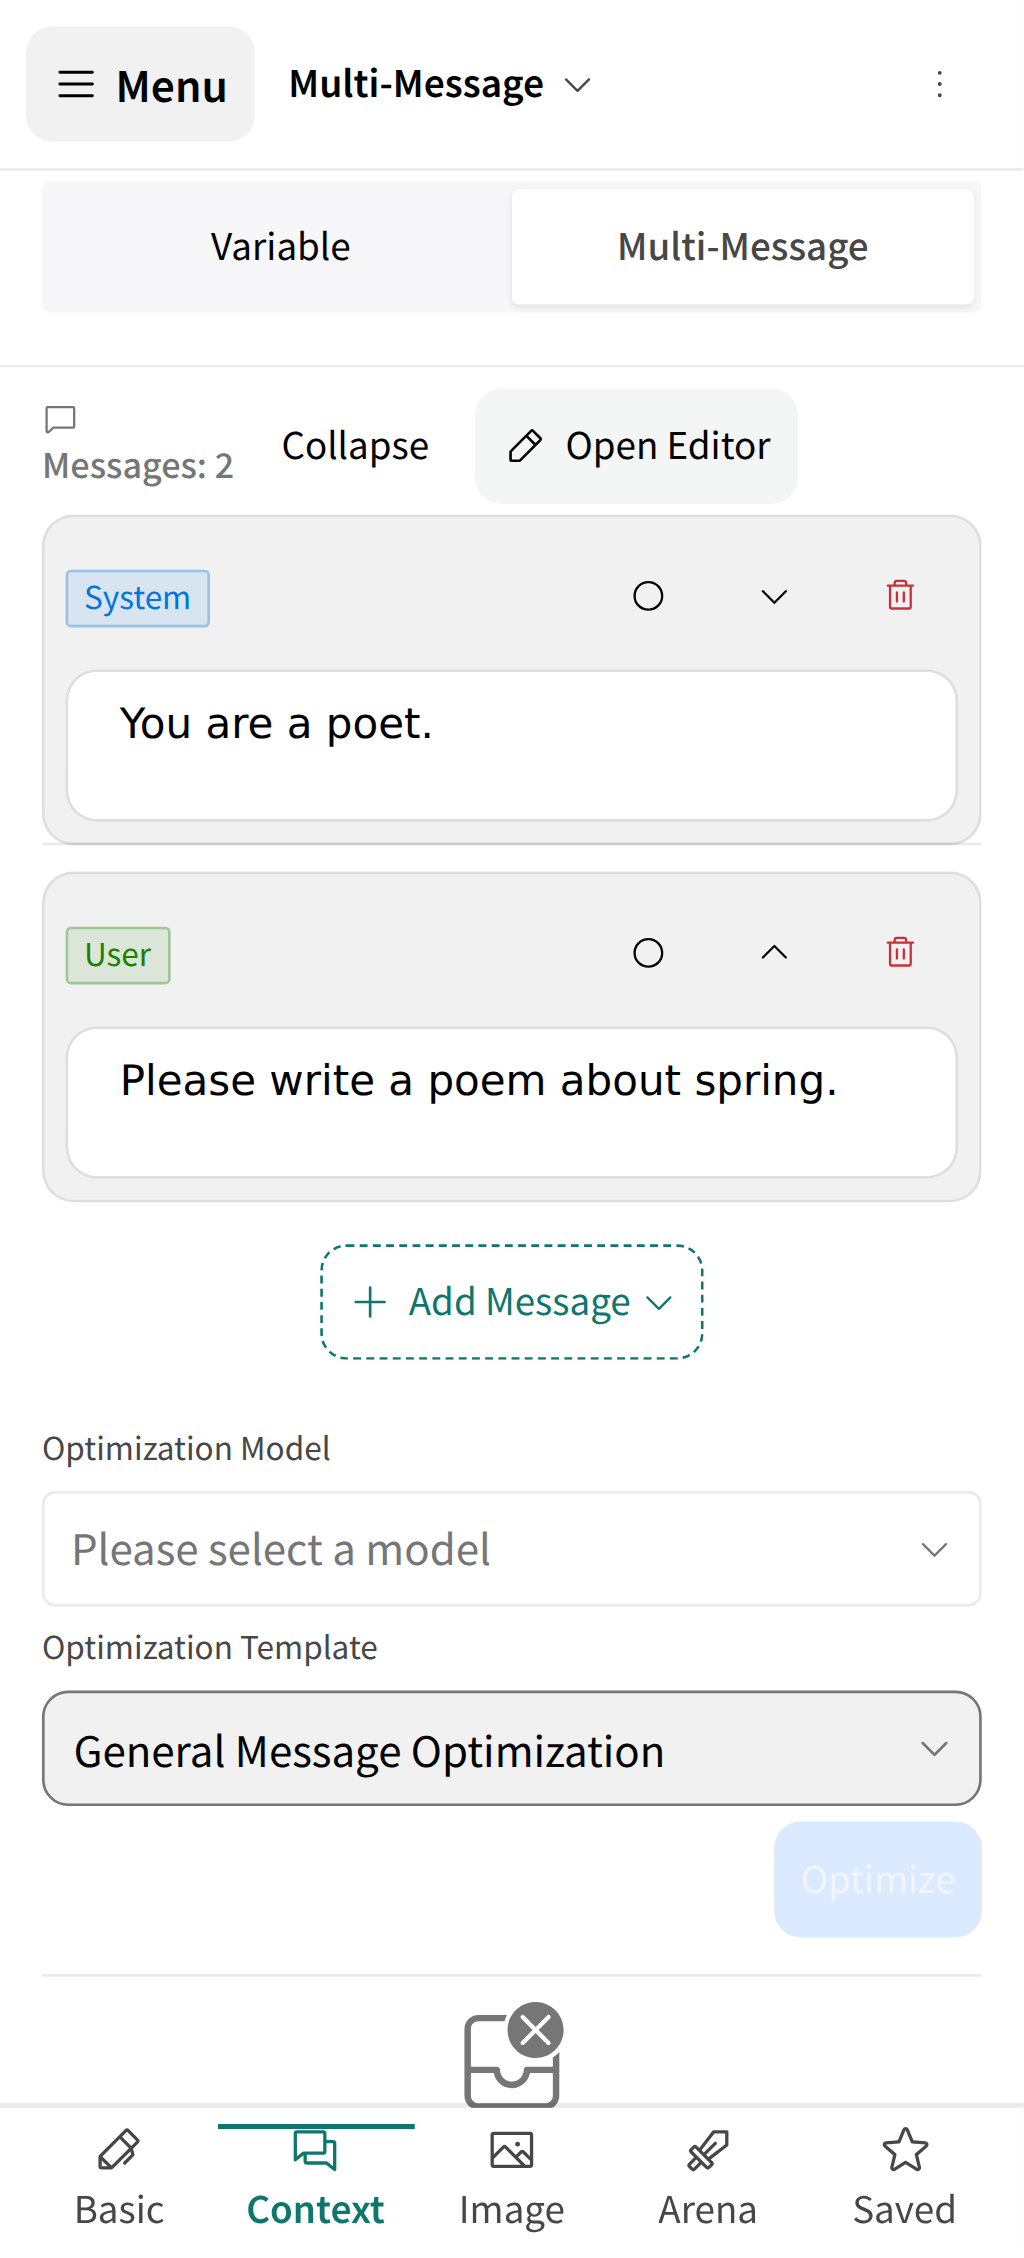
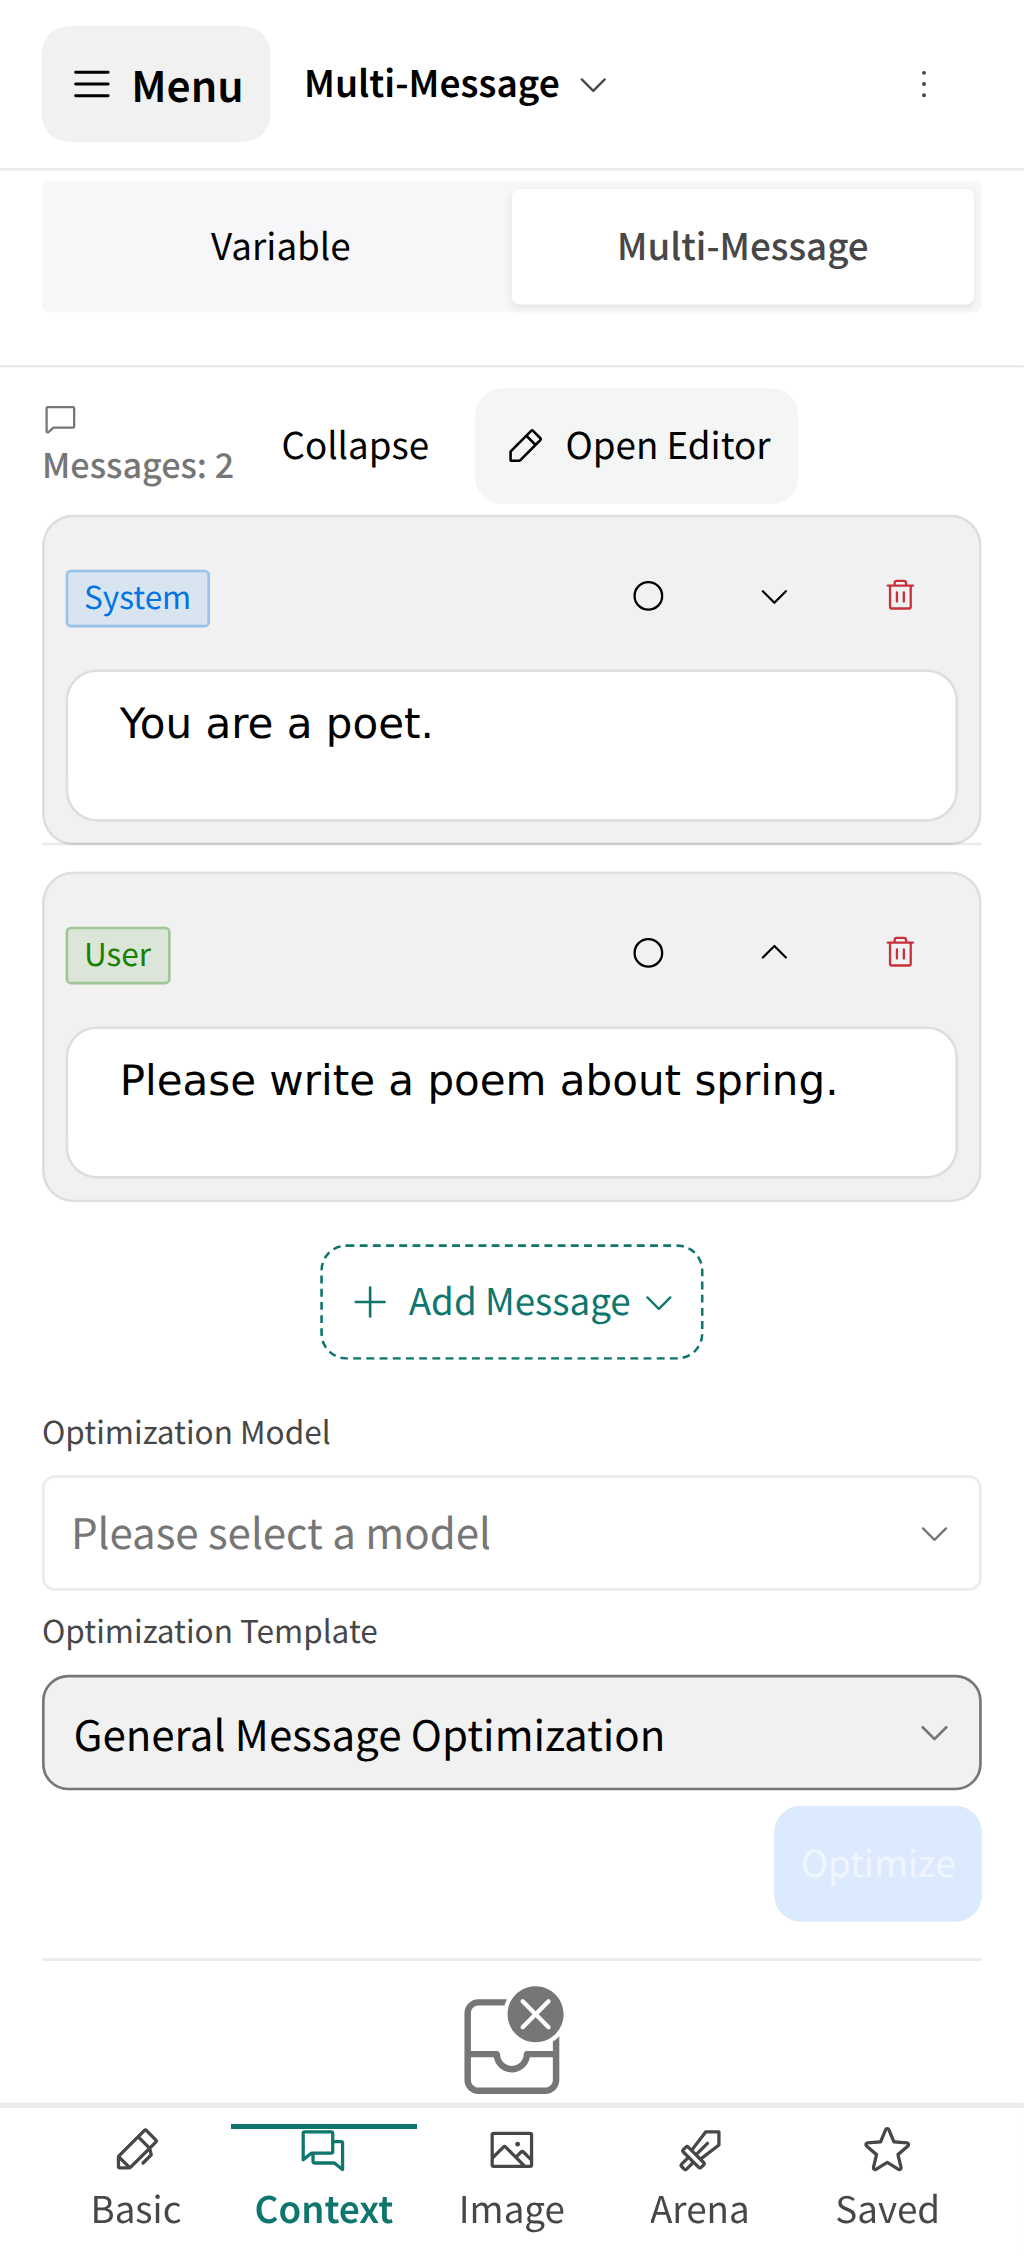
fix(mobile): resolve mobile frozen scroll lock & enable document flow on Honor Magic6

diff --git a/packages/ui/src/styles/compact-workspace.css b/packages/ui/src/styles/compact-workspace.css
@@ -26,46 +26,131 @@
 @import './compact/image-targets.css';
 
 /* ==========================================================================
- * Honor Magic6 Mobile-First Responsive Tuning
+ * Honor Magic6 Mobile-First Responsive Tuning & Document Flow Architecture
  * ========================================================================== */
 
-/* 1. Full-height containers & 100dvh support with fallbacks to eliminate address bar jitter */
+/* 1. Full viewport support without trapping vertical document scroll */
 @supports (height: 100dvh) {
   :root {
     --viewport-height: 100dvh;
   }
 }
 
-.workspace-compact .compact-viewport-frame {
+/* 2. Document-level scrolling: Allow the HTML document to scroll freely with touch gestures */
+html.workspace-compact {
+  overflow-x: hidden !important;
+  overflow-y: auto !important;
+  height: auto !important;
+  min-height: 100dvh !important;
+  -webkit-overflow-scrolling: touch !important;
+}
+
+html.workspace-compact body {
+  overflow: visible !important;
+  overflow-x: visible !important;
+  overflow-y: visible !important;
+  height: auto !important;
+  min-height: 100dvh !important;
+  max-width: 100vw;
+  box-sizing: border-box;
+}
+
+.workspace-compact #app,
+.workspace-compact .web-workspace,
+.workspace-compact .n-config-provider {
+  height: auto !important;
+  min-height: 100dvh !important;
+  overflow: visible !important;
+}
+
+/* 3. Unblock frame & containers: Remove scroll lock and viewport clamps */
+.workspace-compact .compact-viewport-frame,
+.workspace-compact .app-frame,
+.workspace-compact .app-frame--compact {
   min-height: 100vh;
   min-height: 100dvh;
-  height: 100vh;
-  height: 100dvh;
-  height: var(--compact-viewport-height, 100dvh) !important;
-  max-height: 100vh;
-  max-height: 100dvh;
-  max-height: var(--compact-viewport-height, 100dvh) !important;
+  height: auto !important;
+  max-height: none !important;
+  overflow: visible !important;
 }
 
-/* 2. Safe-area insets: Pill camera cutout (top) and Android gesture bar (bottom) */
+.workspace-compact .app-content {
+  height: auto !important;
+  min-height: 0 !important;
+  max-height: none !important;
+  overflow: visible !important;
+  /* Reserve space for fixed bottom tab bar (58px) + gesture navigation safe-area + clearance */
+  padding-bottom: calc(var(--compact-tab-bar-height, 58px) + max(env(safe-area-inset-bottom, 0px), 16px) + 24px) !important;
+}
+
+.workspace-compact .main-content-wrapper,
+.workspace-compact .compact-two-region {
+  height: auto !important;
+  min-height: 0 !important;
+  max-height: none !important;
+  overflow: visible !important;
+  max-width: 100vw;
+  box-sizing: border-box;
+}
+
+/* 4. Sticky Header with safe-area for pill camera cutout (~92px max compact height) */
 .workspace-compact .compact-header {
+  position: sticky !important;
+  top: 0 !important;
+  z-index: 100 !important;
+  background: var(--compact-paper, #ffffff) !important;
   padding-top: max(env(safe-area-inset-top, 0px), var(--safe-area-inset-top, 0px));
+  max-width: 100vw;
+  box-sizing: border-box;
 }
 
+.workspace-compact .compact-navigation {
+  height: 48px !important;
+  min-height: 44px !important;
+  padding-top: 2px !important;
+  padding-bottom: 2px !important;
+  padding-left: max(16px, env(safe-area-inset-left, 0px), var(--safe-area-inset-left, 0px)) !important;
+  padding-right: max(16px, env(safe-area-inset-right, 0px), var(--safe-area-inset-right, 0px)) !important;
+  max-width: 100vw;
+  box-sizing: border-box;
+}
+
+.workspace-compact .compact-mode-strip {
+  padding-top: 2px !important;
+  padding-bottom: 6px !important;
+  padding-left: max(16px, env(safe-area-inset-left, 0px), var(--safe-area-inset-left, 0px)) !important;
+  padding-right: max(16px, env(safe-area-inset-right, 0px), var(--safe-area-inset-right, 0px)) !important;
+  max-width: 100vw;
+  box-sizing: border-box;
+}
+
+/* 5. Fixed Bottom Tab Bar with Android gesture safe area */
 .workspace-compact .compact-tab-bar {
+  position: fixed !important;
+  bottom: 0 !important;
+  left: 0 !important;
+  right: 0 !important;
+  z-index: 100 !important;
+  background: var(--compact-paper, #ffffff) !important;
   padding-bottom: calc(var(--spacing-1-5) + max(env(safe-area-inset-bottom, 0px), var(--safe-area-inset-bottom, 0px))) !important;
+  max-width: 100vw;
+  box-sizing: border-box;
 }
 
-/* 3. Quad-curved screen protection: Enforce minimum 16px horizontal boundary padding
+/* 6. Quad-curved screen protection: Enforce minimum 16px horizontal boundary padding
  * Protects buttons and content from distortion and accidental palm rejection on curved edges */
 .workspace-compact .compact-navigation {
   padding-left: max(16px, env(safe-area-inset-left, 0px), var(--safe-area-inset-left, 0px)) !important;
   padding-right: max(16px, env(safe-area-inset-right, 0px), var(--safe-area-inset-right, 0px)) !important;
+  max-width: 100vw;
+  box-sizing: border-box;
 }
 
 .workspace-compact .compact-mode-strip {
   padding-left: max(16px, env(safe-area-inset-left, 0px), var(--safe-area-inset-left, 0px)) !important;
   padding-right: max(16px, env(safe-area-inset-right, 0px), var(--safe-area-inset-right, 0px)) !important;
+  max-width: 100vw;
+  box-sizing: border-box;
 }
 
 .workspace-compact .compact-tab-bar {
@@ -90,25 +175,5 @@
 .workspace-compact .test-workspace-toolbar--compact {
   padding-left: max(16px, env(safe-area-inset-left, 0px), var(--safe-area-inset-left, 0px));
   padding-right: max(16px, env(safe-area-inset-right, 0px), var(--safe-area-inset-right, 0px));
-}
-
-/* 4. Horizontal overflow prevention across 360px–412px viewports */
-.workspace-compact,
-.workspace-compact body,
-.workspace-compact .app-frame,
-.workspace-compact .app-content,
-.workspace-compact .main-content-wrapper,
-.workspace-compact .compact-two-region {
-  max-width: 100vw;
-  overflow-x: hidden;
-  box-sizing: border-box;
-}
-
-.workspace-compact .compact-header,
-.workspace-compact .compact-navigation,
-.workspace-compact .compact-mode-strip,
-.workspace-compact .compact-tab-bar {
-  max-width: 100vw;
-  box-sizing: border-box;
 }
 

diff --git a/packages/ui/src/components/MainLayout.vue b/packages/ui/src/components/MainLayout.vue
@@ -283,18 +283,19 @@ const jumpToMainContent = () => {
 .app-frame--compact {
   min-height: 100vh;
   min-height: 100dvh;
-  height: 100vh;
-  height: 100dvh;
-  height: var(--viewport-height, 100dvh);
+  height: auto;
   padding-top: 0;
   padding-bottom: 0;
   padding-left: 0;
   padding-right: 0;
   max-width: 100vw;
-  overflow-x: hidden;
+  overflow: visible;
 }
 
 .app-frame--compact .compact-header {
+  position: sticky;
+  top: 0;
+  z-index: 25;
   padding-top: max(env(safe-area-inset-top, 0px), var(--safe-area-inset-top, 0px));
 }
 
@@ -313,9 +314,9 @@ const jumpToMainContent = () => {
 }
 
 .app-frame--compact .app-content {
-  padding: 0 0 calc(var(--compact-tab-bar-height) + max(env(safe-area-inset-bottom, 0px), var(--safe-area-inset-bottom, 0px)));
+  padding: 0 0 calc(var(--compact-tab-bar-height) + max(env(safe-area-inset-bottom, 0px), var(--safe-area-inset-bottom, 0px)) + 24px);
   max-width: 100vw;
-  overflow-x: hidden;
+  overflow: visible;
 }
 
 .main-content-wrapper {

diff --git a/packages/ui/src/styles/compact/overlay.css b/packages/ui/src/styles/compact/overlay.css
@@ -1,6 +1,5 @@
 /* AdaptiveModal and shared overlay primitives. Naive card/dialog slots are the deliberate framework boundary. */
 
-.workspace-compact .compact-viewport-frame,
 .workspace-compact .n-modal-body-wrapper {
   top: var(--compact-viewport-top, 0px) !important;
   bottom: auto !important;
